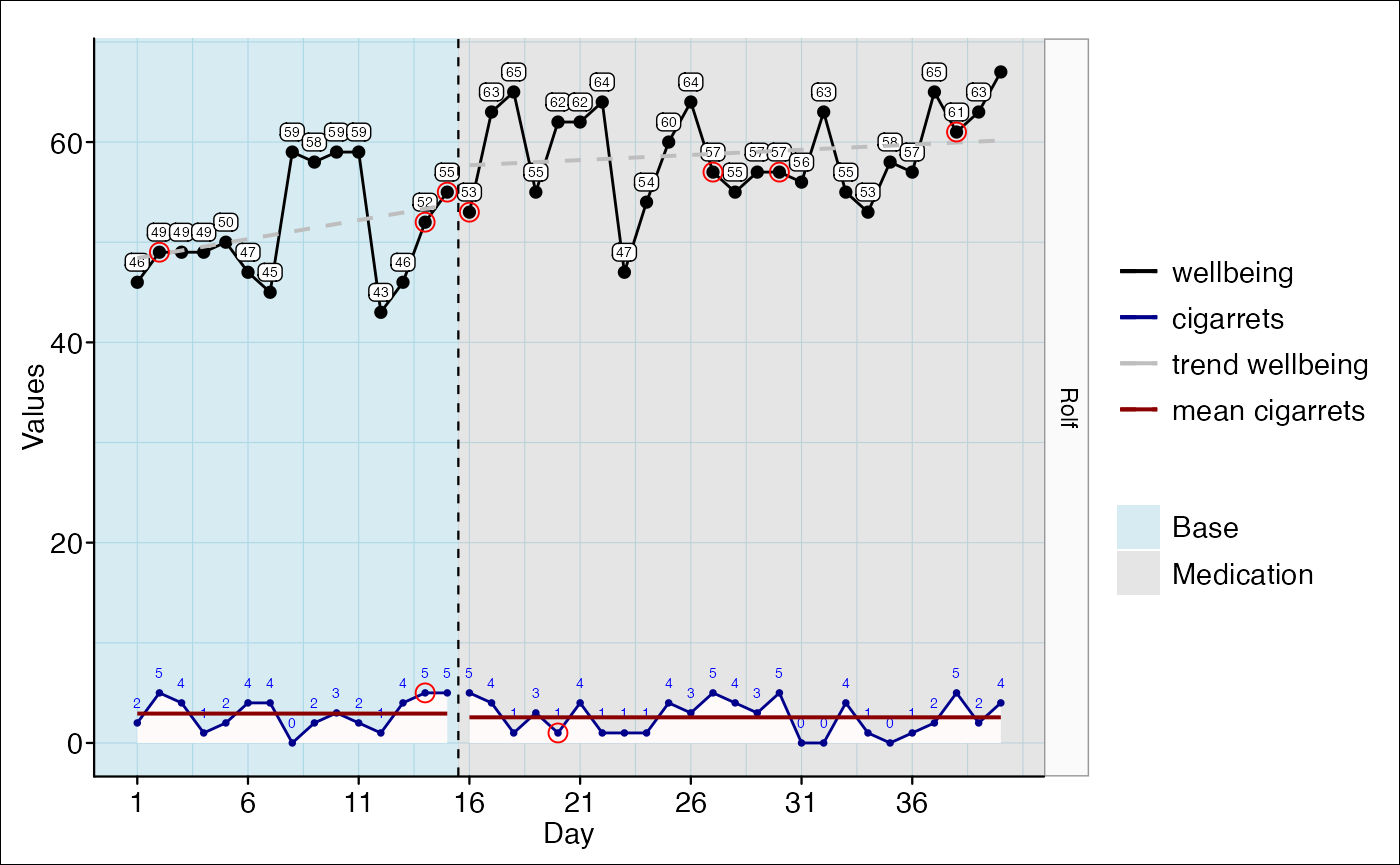
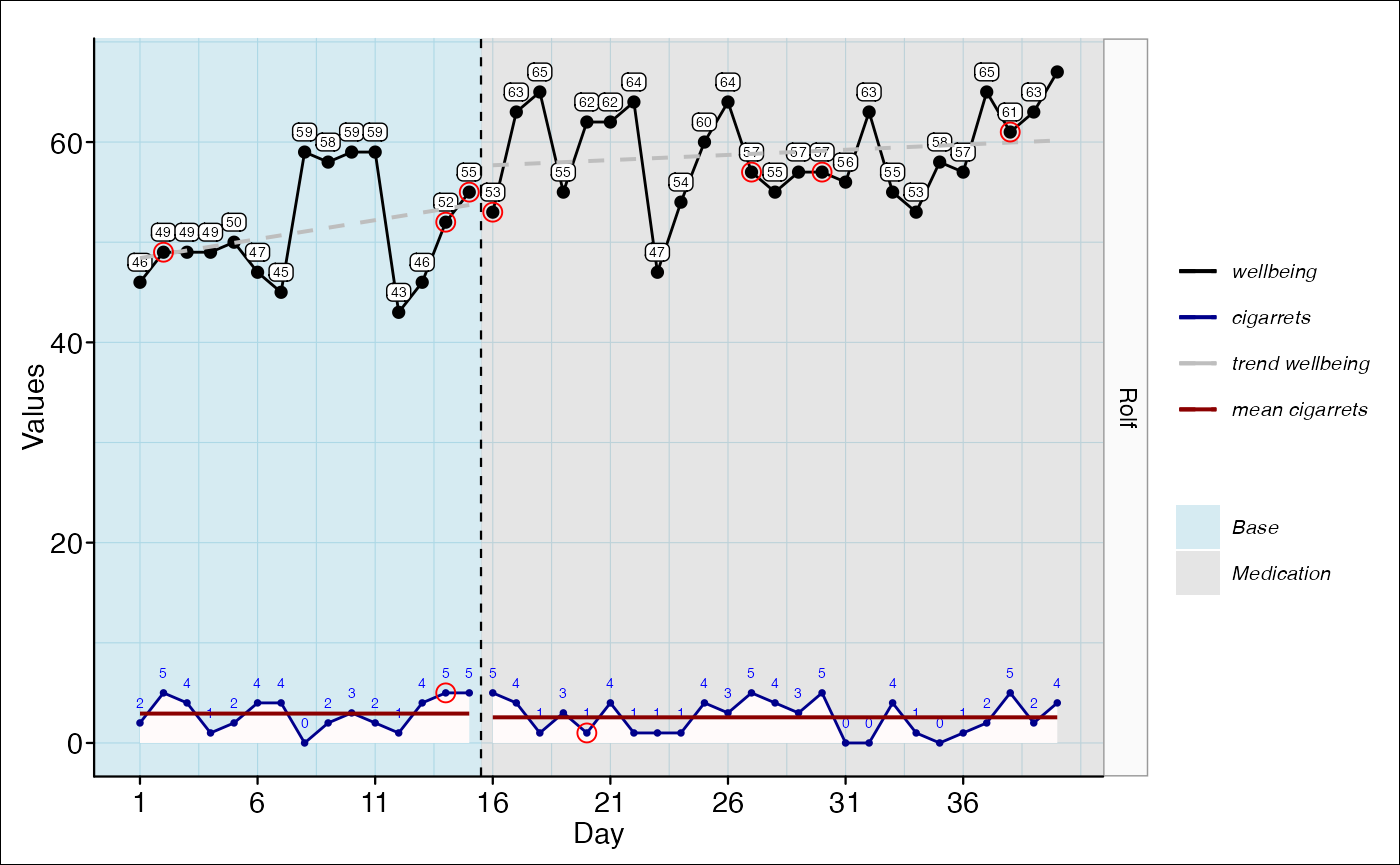
typo

diff --git a/docs/articles/example_plots.html b/docs/articles/example_plots.html
@@ -192,9 +192,7 @@
   <span class="fu"><a href="../reference/scplot.html">set_xaxis</a></span><span class="op">(</span>increment <span class="op">=</span> <span class="fl">5</span><span class="op">)</span> <span class="op">%&gt;%</span>
   <span class="fu"><a href="../reference/scplot.html">set_phasenames</a></span><span class="op">(</span>color <span class="op">=</span> <span class="cn">NA</span><span class="op">)</span> <span class="op">%&gt;%</span>
   <span class="fu"><a href="../reference/scplot.html">set_casenames</a></span><span class="op">(</span>type <span class="op">=</span> <span class="st">"strip"</span><span class="op">)</span> <span class="op">%&gt;%</span>
-  <span class="fu"><a href="../reference/scplot.html">add_legend</a></span><span class="op">(</span>position <span class="op">=</span> <span class="st">"right"</span>, title <span class="op">=</span> <span class="fu"><a href="https://rdrr.io/r/base/list.html">list</a></span><span class="op">(</span>color <span class="op">=</span> <span class="cn">NA</span><span class="op">)</span><span class="op">)</span> <span class="op">%&gt;%</span> <span class="co">#, </span>
-  <span class="co">#           title = list(size = 0),</span>
-  <span class="co">#           text = list(face = 3)) #%&gt;%</span>
+  <span class="fu"><a href="../reference/scplot.html">add_legend</a></span><span class="op">(</span>title <span class="op">=</span> <span class="fu"><a href="https://rdrr.io/r/base/list.html">list</a></span><span class="op">(</span>color <span class="op">=</span> <span class="cn">NA</span><span class="op">)</span>, text <span class="op">=</span> <span class="fu"><a href="https://rdrr.io/r/base/list.html">list</a></span><span class="op">(</span>face <span class="op">=</span> <span class="fl">3</span><span class="op">)</span><span class="op">)</span> <span class="op">%&gt;%</span>
   <span class="fu"><a href="../reference/scplot.html">set_panel</a></span><span class="op">(</span>fill <span class="op">=</span> <span class="fu"><a href="https://rdrr.io/r/base/c.html">c</a></span><span class="op">(</span><span class="st">"lightblue"</span>, <span class="st">"grey80"</span><span class="op">)</span><span class="op">)</span> <span class="op">%&gt;%</span>
   <span class="fu"><a href="../reference/scplot.html">add_ridge</a></span><span class="op">(</span>color <span class="op">=</span> <span class="st">"snow"</span>, variable <span class="op">=</span> <span class="st">"cigarrets"</span><span class="op">)</span> <span class="op">%&gt;%</span>
   <span class="fu"><a href="../reference/scplot.html">add_labels</a></span><span class="op">(</span>variable <span class="op">=</span> <span class="st">"cigarrets"</span>, nudge_y <span class="op">=</span> <span class="fl">2</span>, 
